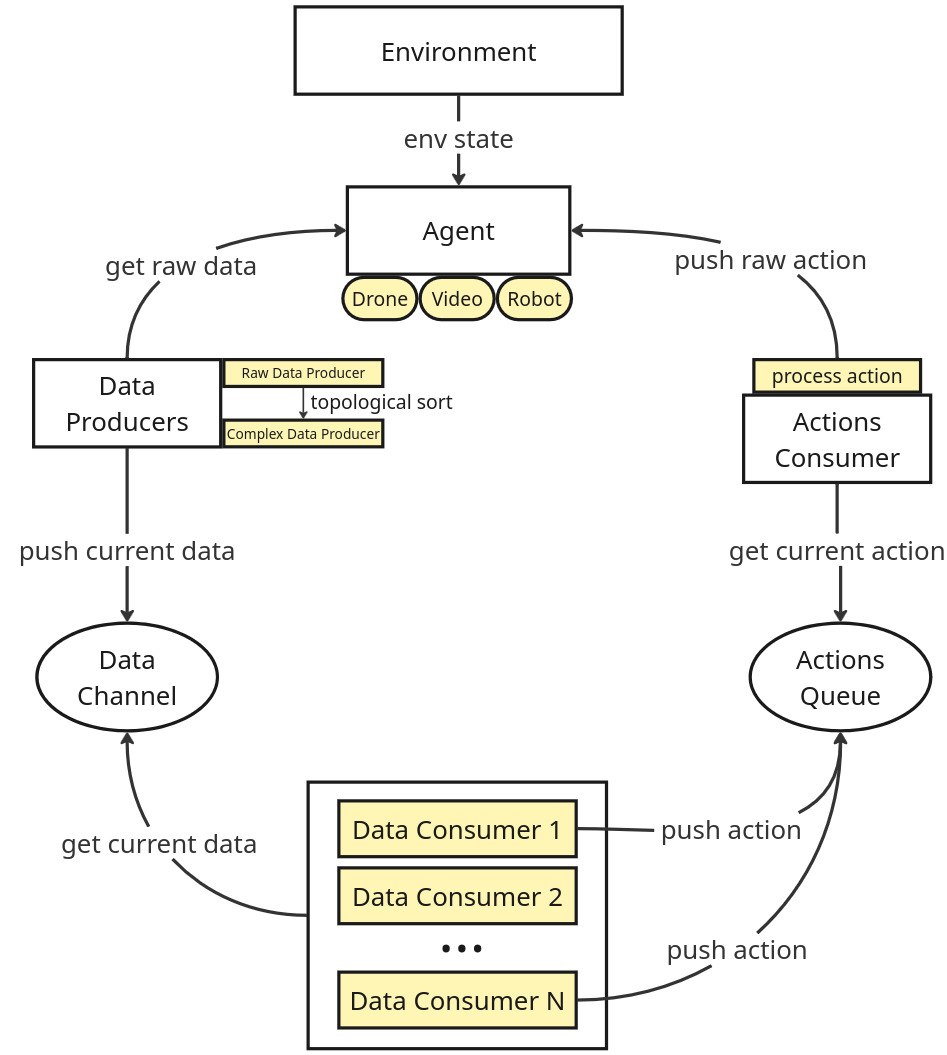
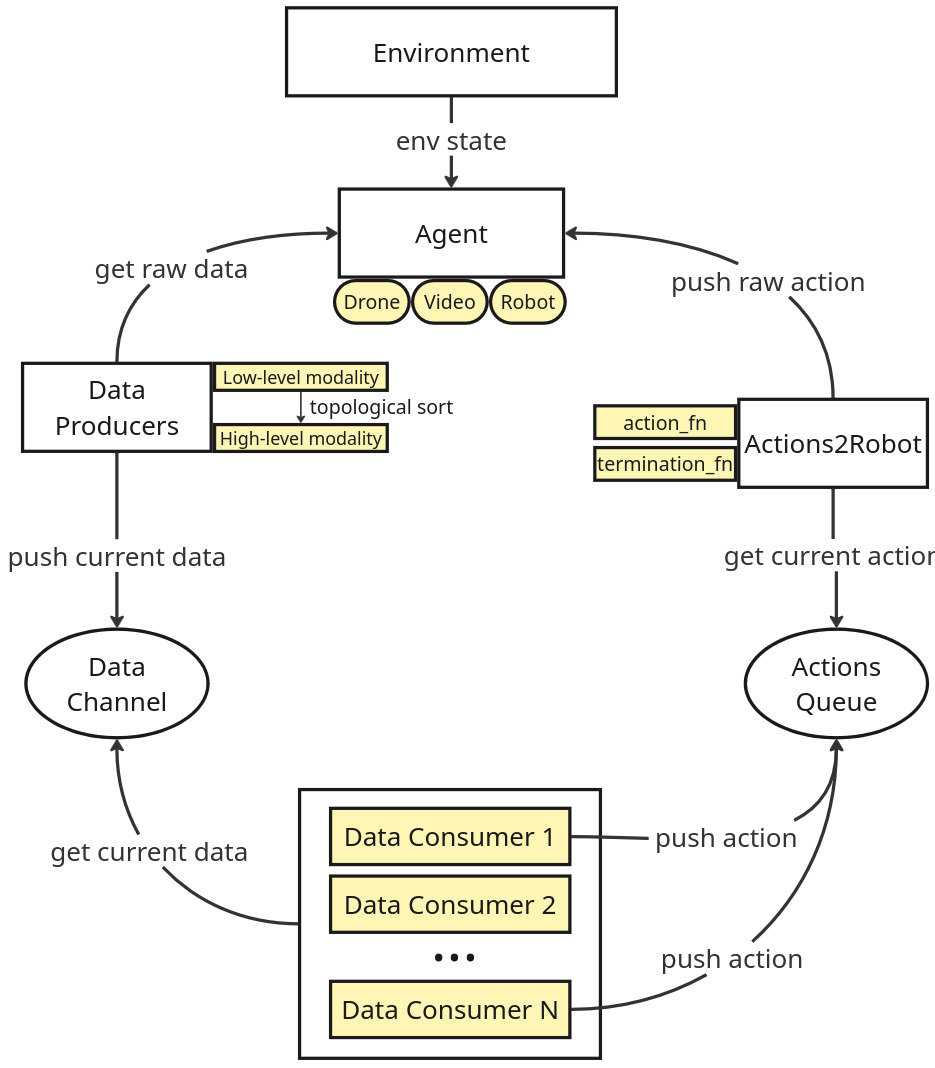
Rename ActionsConsumer to Actions2Drone and actions fn to actionfn

diff --git a/robobase/actions2robot.py b/robobase/actions2robot.py
@@ -1,19 +1,19 @@
-"""actions_interfaces.py - Interfaces for interacting with the actions produced by a ActionProducers"""
+"""action2robot.py - the module that interfaces bewteen the action and the robot/drone"""
 from __future__ import annotations
 import threading
 from queue import Empty
 
-from robobase.types import Action, ActionsFn, TerminationFn
+from robobase.types import Action, ActionFn, TerminationFn
 from robobase.utils import logger
 from robobase.actions_queue import ActionsQueue
 
-class ActionConsumer(threading.Thread):
-    """Interface defining the requirements of a drone (real, sym, mock) to receive an action & apply it to the drone"""
-    def __init__(self, actions_queue: ActionsQueue, actions_fn: ActionsFn, termination_fn: TerminationFn):
+class Actions2Robot(threading.Thread):
+    """Interface defining the requirements of a robot (real, sym, mock) to receive an action & apply it to the robot"""
+    def __init__(self, actions_queue: ActionsQueue, action_fn: ActionFn, termination_fn: TerminationFn):
         threading.Thread.__init__(self, daemon=True)
         assert isinstance(actions_queue, ActionsQueue), f"queue must inherit ActionsQueue: {type(actions_queue)}"
         self._actions_queue = actions_queue
-        self._actions_fn = actions_fn
+        self._action_fn = action_fn
         self._termination_fn = termination_fn
 
     @property
@@ -22,9 +22,9 @@ class ActionConsumer(threading.Thread):
         return self._actions_queue
 
     @property
-    def actions_fn(self) -> ActionsFn:
-        """Given a generic action, communicates it to the drone"""
-        return self._actions_fn
+    def action_fn(self) -> ActionFn:
+        """Given a generic action, communicates it to the robot"""
+        return self._action_fn
 
     @property
     def termination_fn(self) -> TerminationFn:
@@ -38,7 +38,7 @@ class ActionConsumer(threading.Thread):
             except Empty:
                 continue
             logger.debug(f"Received action: '{action}' (#in queue: {len(self.actions_queue)})")
-            res = self.actions_fn(action)
+            res = self.action_fn(action)
             if res is False:
                 logger.warning(f"Could not perform action '{action}'")
 

diff --git a/examples/video/3-video-player-with-splitter-segmentation/main.py b/examples/video/3-video-player-with-splitter-segmentation/main.py
@@ -16,7 +16,7 @@ from loggez import loggez_logger as logger
 
 from mask_splitter_data_producer import MaskSplitterDataProducer
 
-from robobase import ActionsQueue, DataChannel, DataItem, ThreadGroup, DataProducerList, ActionConsumer
+from robobase import ActionsQueue, DataChannel, DataItem, ThreadGroup, DataProducerList, Actions2Robot
 from roboimpl.data_producers.object_detection import YOLODataProducer
 from roboimpl.drones.video import VideoPlayer, VideoDataProducer, video_actions_fn, VIDEO_SUPPORTED_ACTIONS
 from roboimpl.controllers import ScreenDisplayer
@@ -83,8 +83,7 @@ def main(args: Namespace):
 
     # define the threads of the app
     rgb_data_producer = VideoDataProducer(video_player=video_player)
-    yolo_data_producer = YOLODataProducer(weights_path=args.weights_path_yolo, threshold=args.yolo_threshold,
-                                          resize_segmentation=True)
+    yolo_data_producer = YOLODataProducer(weights_path=args.weights_path_yolo, threshold=args.yolo_threshold)
     mask_splitter_data_producer = MaskSplitterDataProducer(splitter_model_path=args.weights_path_mask_splitter_network,
                                                            mask_threshold=args.mask_splitter_network_mask_threshold,
                                                            bbox_threshold=args.mask_splitter_network_bbox_threshold)
@@ -95,8 +94,8 @@ def main(args: Namespace):
                      "Left": "GO_BACK_ONE_SECOND"}
     screen_displayer = ScreenDisplayer(data_channel, actions_queue, screen_height=SCREEN_HEIGHT,
                                        screen_frame_callback=screen_frame_callback, key_to_action=key_to_action)
-    action2video = ActionConsumer(actions_queue=actions_queue, termination_fn=lambda: video_player.is_done,
-                                  actions_fn=partial(video_actions_fn, video_player=video_player))
+    action2video = Actions2Robot(actions_queue=actions_queue, termination_fn=lambda: video_player.is_done,
+                                  action_fn=partial(video_actions_fn, video_player=video_player))
 
     # start the threads
     threads = ThreadGroup({

diff --git a/examples/video/2-video-player-with-neural-network-data-producers/main.py b/examples/video/2-video-player-with-neural-network-data-producers/main.py
@@ -11,7 +11,7 @@ from vre_video import VREVideo
 import numpy as np
 from loggez import loggez_logger as logger
 
-from robobase import ActionsQueue, DataChannel, DataItem, ThreadGroup, DataProducerList, ActionConsumer
+from robobase import ActionsQueue, DataChannel, DataItem, ThreadGroup, DataProducerList, Actions2Robot
 from roboimpl.data_producers.semantic_segmentation import PHGMAESemanticDataProducer
 from roboimpl.data_producers.object_detection import YOLODataProducer
 from roboimpl.drones.video import VideoPlayer, VideoDataProducer, video_actions_fn, VIDEO_SUPPORTED_ACTIONS
@@ -86,8 +86,8 @@ def main(args: Namespace):
                      "Left": "GO_BACK_ONE_SECOND"}
     screen_displayer = ScreenDisplayer(data_channel, actions_queue, screen_height=SCREEN_HEIGHT,
                                        screen_frame_callback=f_screen_frame_callback, key_to_action=key_to_action)
-    action2video = ActionConsumer(actions_queue=actions_queue, termination_fn=lambda: video_player.is_done,
-                                  actions_fn=partial(video_actions_fn, video_player=video_player))
+    action2video = Actions2Robot(actions_queue=actions_queue, termination_fn=lambda: video_player.is_done,
+                                  action_fn=partial(video_actions_fn, video_player=video_player))
 
     # start the threads
     threads = ThreadGroup({

diff --git a/examples/video/1-video-player-with-keyboard-and-udp/main.py b/examples/video/1-video-player-with-keyboard-and-udp/main.py
@@ -9,7 +9,7 @@ import time
 from vre_video import VREVideo
 from loggez import loggez_logger as logger
 
-from robobase import ActionsQueue, DataChannel, ThreadGroup, DataProducerList, ActionConsumer
+from robobase import ActionsQueue, DataChannel, ThreadGroup, DataProducerList, Actions2Robot
 from roboimpl.drones.video import VideoPlayer, VideoDataProducer, video_actions_fn, VIDEO_SUPPORTED_ACTIONS
 from roboimpl.controllers import ScreenDisplayer, UDPController
 
@@ -38,8 +38,8 @@ def main(args: Namespace):
     screen_displayer = ScreenDisplayer(data_channel, actions_queue, screen_height=SCREEN_HEIGHT,
                                        key_to_action=key_to_action)
     udp_controller = UDPController(port=args.port, data_channel=data_channel, actions_queue=actions_queue)
-    action2video = ActionConsumer(actions_queue=actions_queue, termination_fn=lambda: video_player.is_done,
-                                  actions_fn=partial(video_actions_fn, video_player=video_player))
+    action2video = Actions2Robot(actions_queue=actions_queue, termination_fn=lambda: video_player.is_done,
+                                  action_fn=partial(video_actions_fn, video_player=video_player))
 
     # start the threads
     threads = ThreadGroup({

diff --git a/test/e2e/video-udp-screenshot/main.py b/test/e2e/video-udp-screenshot/main.py
@@ -8,7 +8,7 @@ from argparse import ArgumentParser, Namespace
 import time
 from vre_video import VREVideo
 
-from robobase import ActionsQueue, DataChannel, DataProducerList, ActionConsumer
+from robobase import ActionsQueue, DataChannel, DataProducerList, Actions2Robot
 from robobase.utils import logger, ThreadGroup
 from roboimpl.drones.video import VideoPlayer, VideoDataProducer, video_actions_fn
 from roboimpl.controllers import UDPController
@@ -35,8 +35,8 @@ def main(args: Namespace):
     # define the threads of the app
     data_producers = DataProducerList(data_channel, data_producers=[VideoDataProducer(video_player=video_player)])
     udp_controller = UDPController(port=args.port, data_channel=data_channel, actions_queue=actions_queue)
-    action2video = ActionConsumer(actions_queue=actions_queue, termination_fn=lambda: video_player.is_done,
-                                  actions_fn=partial(video_actions_fn, video_player=video_player))
+    action2video = Actions2Robot(actions_queue=actions_queue, termination_fn=lambda: video_player.is_done,
+                                  action_fn=partial(video_actions_fn, video_player=video_player))
 
     # start the threads
     threads = ThreadGroup({

diff --git a/examples/olympe_parrot/2-keyboard-controller-priority-queue-semantic-segmentation/main.py b/examples/olympe_parrot/2-keyboard-controller-priority-queue-semantic-segmentation/main.py
@@ -12,7 +12,7 @@ import numpy as np
 import olympe
 from olympe.video.pdraw import PdrawState
 
-from robobase import ActionsQueue, Action, DataItem, DataChannel, ThreadGroup, DataProducerList, ActionConsumer
+from robobase import ActionsQueue, Action, DataItem, DataChannel, ThreadGroup, DataProducerList, Actions2Robot
 from roboimpl.data_producers.semantic_segmentation import PHGMAESemanticDataProducer
 from roboimpl.drones.olympe_parrot import OlympeDataProducer, olympe_actions_fn, OLYMPE_SUPPORTED_ACTIONS
 from roboimpl.controllers import ScreenDisplayer
@@ -69,7 +69,7 @@ def main():
                                                screen_frame_callback=screen_frame_callback, key_to_action=key_to_action)
     termination_fn = lambda: drone.connected and drone.streaming.state == PdrawState.Playing # pylint: disable=all #noqa
     actions_fn = partial(olympe_actions_fn, drone=drone)
-    action2drone = ActionConsumer(actions_queue, actions_fn=actions_fn, termination_fn=termination_fn)
+    action2drone = Actions2Robot(actions_queue, action_fn=actions_fn, termination_fn=termination_fn)
 
     threads = ThreadGroup({
         "Drone -> Data": data_producers,

diff --git a/examples/olympe_parrot/3-image-based-visual-servoing-yolo-mask-splitter/main.py b/examples/olympe_parrot/3-image-based-visual-servoing-yolo-mask-splitter/main.py
@@ -17,7 +17,7 @@ from olympe.video.pdraw import PdrawState
 
 from mask_splitter_data_producer import MaskSplitterDataProducer
 
-from robobase import ActionsQueue, DataChannel, DataItem, ThreadGroup, DataProducerList, ActionConsumer
+from robobase import ActionsQueue, DataChannel, DataItem, ThreadGroup, DataProducerList, Actions2Robot
 from roboimpl.data_producers.object_detection import YOLODataProducer
 from roboimpl.drones.olympe_parrot import olympe_actions_fn, OLYMPE_SUPPORTED_ACTIONS, OlympeDataProducer
 from roboimpl.controllers import ScreenDisplayer
@@ -100,7 +100,7 @@ def main(args: Namespace):
                                        screen_frame_callback=screen_frame_callback, key_to_action=key_to_action)
     termination_fn = lambda: drone.connected and drone.streaming.state == PdrawState.Playing # pylint: disable=all #noqa
     actions_fn = partial(olympe_actions_fn, drone=drone)
-    action2drone = ActionConsumer(actions_queue, actions_fn=actions_fn, termination_fn=termination_fn)
+    action2drone = Actions2Robot(actions_queue, action_fn=actions_fn, termination_fn=termination_fn)
 
     # start the threads
     threads = ThreadGroup({

diff --git a/examples/olympe_parrot/1-keyboard-controller-and-display/main.py b/examples/olympe_parrot/1-keyboard-controller-and-display/main.py
@@ -9,7 +9,7 @@ from loggez import loggez_logger as logger
 import olympe
 from olympe.video.pdraw import PdrawState
 
-from robobase import ActionsQueue, DataChannel, ThreadGroup, DataProducerList, ActionConsumer
+from robobase import ActionsQueue, DataChannel, ThreadGroup, DataProducerList, Actions2Robot
 from roboimpl.drones.olympe_parrot import OlympeDataProducer, olympe_actions_fn, OLYMPE_SUPPORTED_ACTIONS
 from roboimpl.controllers import ScreenDisplayer
 
@@ -34,7 +34,7 @@ def main():
                                        screen_height=SCREEN_HEIGHT)
     termination_fn = lambda: drone.connected and drone.streaming.state == PdrawState.Playing # pylint: disable=all #noqa
     actions_fn = partial(olympe_actions_fn, drone=drone)
-    action2drone = ActionConsumer(actions_queue, actions_fn=actions_fn, termination_fn=termination_fn)
+    action2drone = Actions2Robot(actions_queue, action_fn=actions_fn, termination_fn=termination_fn)
 
     threads = ThreadGroup({
         "Drone -> Data": data_producers,

diff --git a/examples/maze/main.py b/examples/maze/main.py
@@ -13,7 +13,7 @@ from queue import Queue
 from loggez import make_logger
 
 from robobase import (DataProducer, DataChannel, ActionsQueue, ThreadGroup,
-                      DataProducerList, Planner, DataItem, ActionConsumer, Action)
+                      DataProducerList, Planner, DataItem, Actions2Robot, Action)
 
 sys.path.append(Path(__file__).parent.__str__())
 from maze import Maze, PointIJ # pylint: disable=all
@@ -144,7 +144,7 @@ def main(args: Namespace):
                                eq_fn=lambda a, b: a["n_moves"] == b["n_moves"])
 
     planner = Planner(data_channel, actions_queue, planner_fn=planner_fn)
-    action2maze = ActionConsumer(actions_queue, actions_fn=partial(actions_fn, maze=maze),
+    action2maze = Actions2Robot(actions_queue, action_fn=partial(actions_fn, maze=maze),
                                  termination_fn=lambda: maze.is_finished() or maze.n_moves >= maze.max_tries)
 
     threads = ThreadGroup({

diff --git a/robobase/__init__.py b/robobase/__init__.py
@@ -1,18 +1,18 @@
 """init file"""
-from .types import DataItem, ActionsFn, Action
+from .types import DataItem, ActionFn, Action
 from .data_channel import DataChannel
 from .data_producer import DataProducer
 from .data_producer_list import DataProducerList
 from .controller import Controller, Planner
 from .actions_queue import ActionsQueue
-from .actions_interfaces import ActionConsumer
+from .actions2robot import Actions2Robot
 from .utils.thread_group import ThreadGroup
 
-__all__ = ["DataItem", "ActionsFn", "Action",
+__all__ = ["DataItem", "ActionFn", "Action",
            "DataChannel",
            "DataProducer",
            "DataProducerList",
            "Controller", "Planner",
            "ActionsQueue",
-           "ActionConsumer",
+           "Actions2Robot",
            "ThreadGroup"]

diff --git a/robobase/types.py b/robobase/types.py
@@ -4,5 +4,5 @@ import numpy as np
 
 DataItem = np.ndarray | int | str | float # used for the DataChannel dictionary: {modality_name: dict[str, DataItem]}
 Action = str # actions are stored as simple strings for simplicity :)
-ActionsFn = Callable[[Action], bool] # noqa
+ActionFn = Callable[[Action], bool] # noqa
 TerminationFn = Callable[[], bool]

diff --git a/test/robobase/unit/actions_queue_test.py b/test/robobase/unit/actions_queue_test.py
@@ -1,6 +1,6 @@
 import pytest
 from queue import Queue
-from robobase.actions_interfaces import ActionsQueue
+from robobase.actions2robot import ActionsQueue
 
 def test_ActionsQueue_ctor():
     with pytest.raises(AssertionError):
